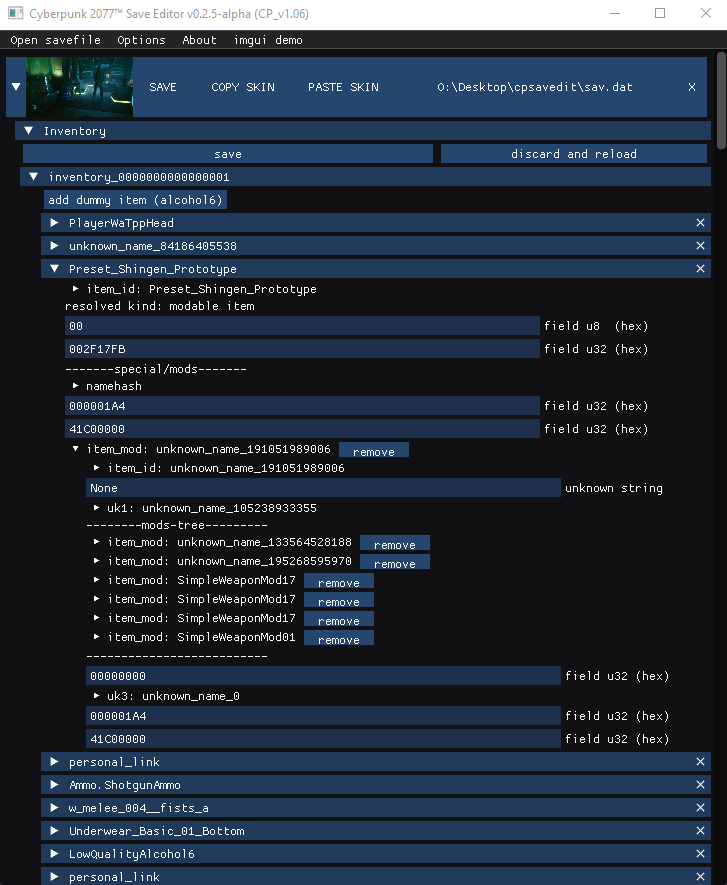
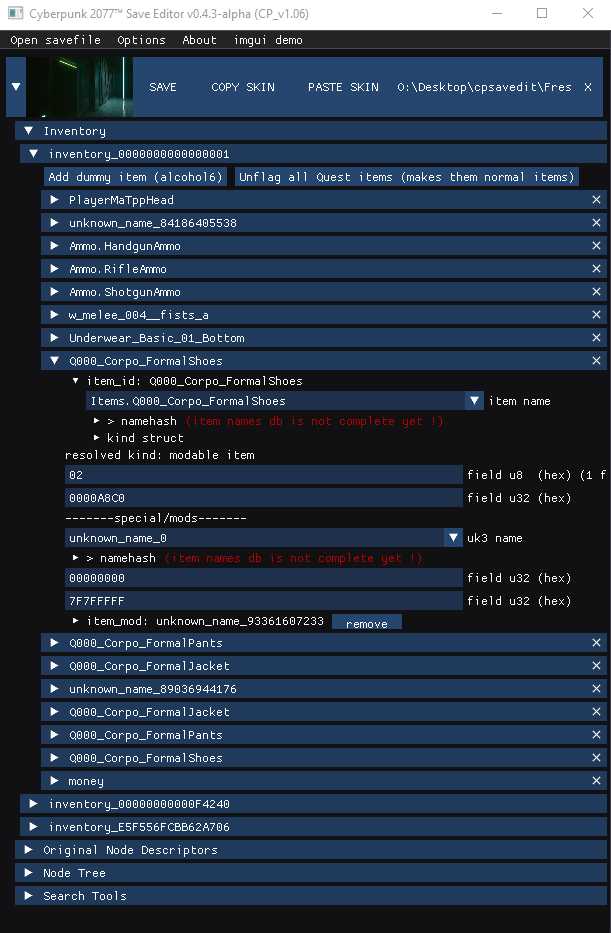
updated preview + version number in title

diff --git a/Source/main.cpp b/Source/main.cpp
@@ -31,7 +31,7 @@ protected:
 public:
 	CPSEApp()
 	{
-		m_wndname = L"Cyberpunk 2077\u2122 Save Editor v0.2.5-alpha (CP_v1.06)";
+		m_wndname = L"Cyberpunk 2077\u2122 Save Editor v0.4.3-alpha (CP_v1.06)";
 		m_display_width = 1600;
 		m_display_height = 900;
 	}
